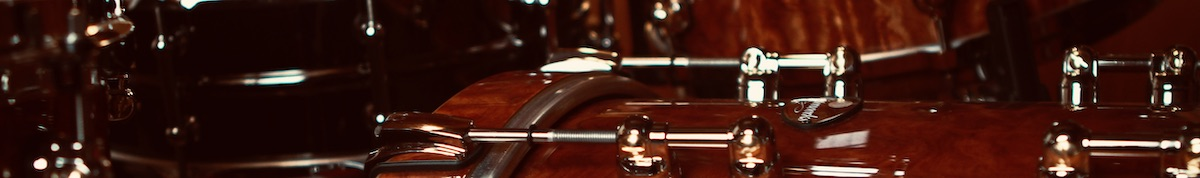
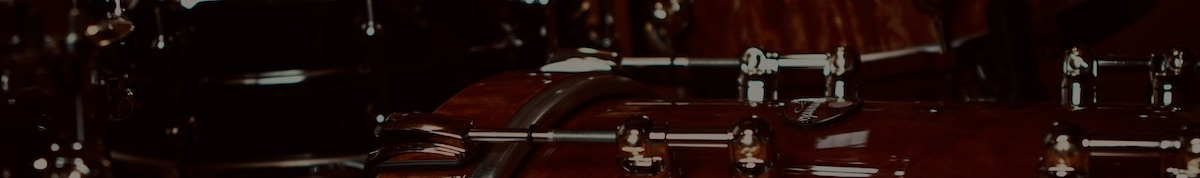
final adjustments

diff --git a/assets/css/styles.css b/assets/css/styles.css
@@ -7,9 +7,10 @@ html {
 /* header styling */
 header {
     font-size: 28px;
+    color: rgb(230, 224, 215);
     position:sticky;
     top: 0;
-    background-image: url();
+    background-image: url("../images/drums.jpeg");
 }
 
 h1 {
@@ -45,6 +46,7 @@ ul {
 
 li {
     margin: 50px;
+    font-size: 42px;
 }
 
 .photo-greeting {
@@ -61,7 +63,6 @@ li {
     background-color: steelblue;
 }
 
-
 #about, #my-work, #content, .article, #contact {
     display: flex;
     flex-direction: column;
@@ -75,6 +76,7 @@ li {
     margin-left: 15%;
     margin-right: 15%;    
 }
+
 .grid article {
     margin: 25px;
 }

diff --git a/index.html b/index.html
@@ -36,7 +36,7 @@
     <!--About section-->
     <section id="about">
         <h2>About</h2>
-        <p>Hello, I'm Jason W. Smith.  DIY drummer dad living the dream in Nashville, TN.  Quickly becoming a budding web developer learning to code one application at a time.  Please take a look around!</p>
+        <p>Hello, I'm Jason W. Smith, a DIY drummer dad living the dream in beautiful Nashville, TN.  Quickly becoming a budding web developer learning to code one application at a time.  Please feel free to take a look around!</p>
     </section>
     <!--My work section-->
     <section id="my-work">
